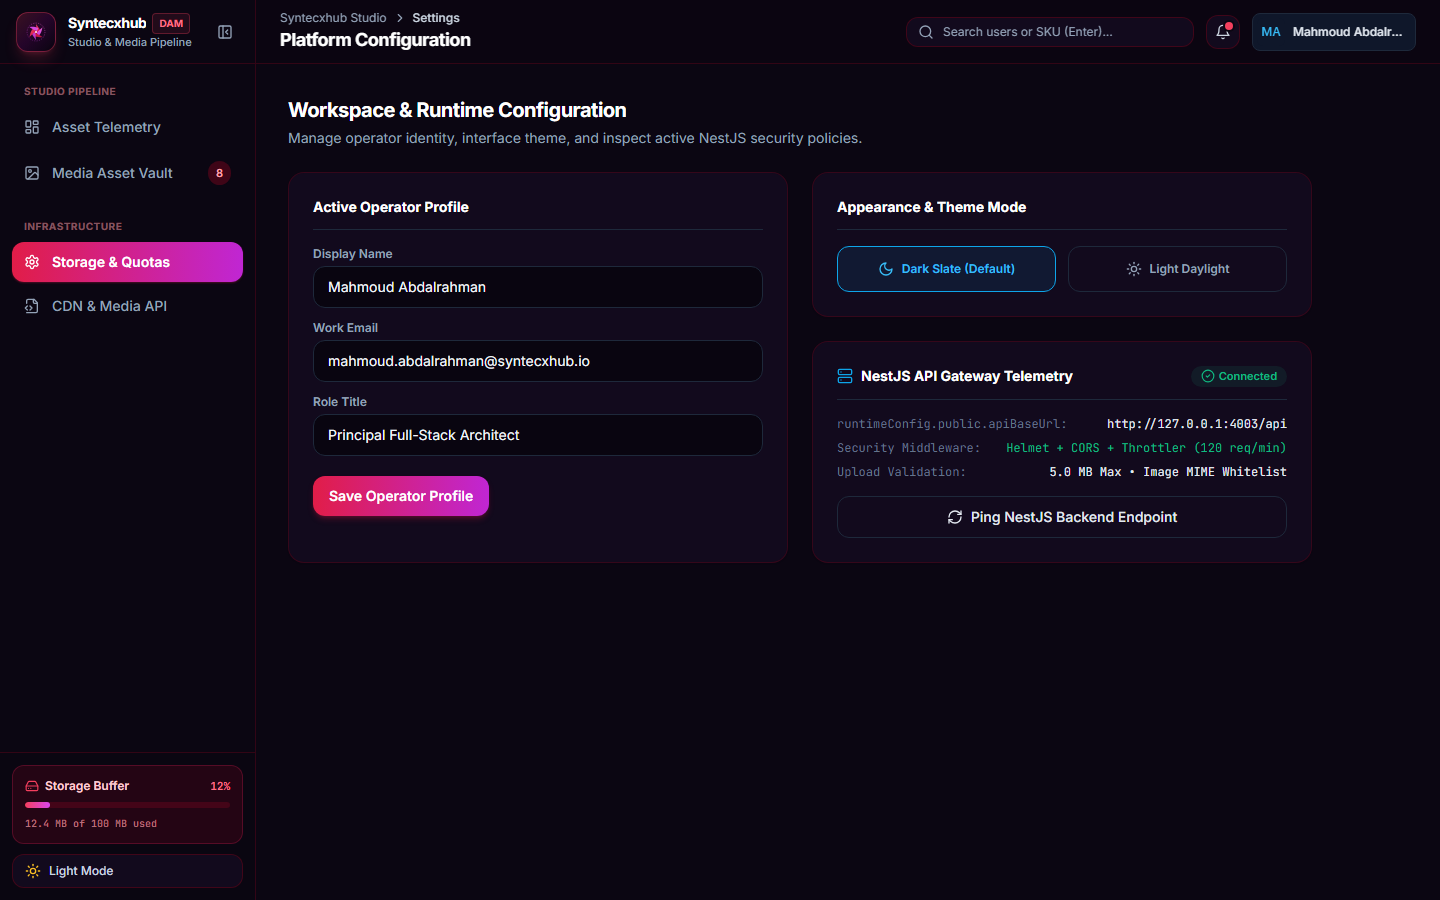
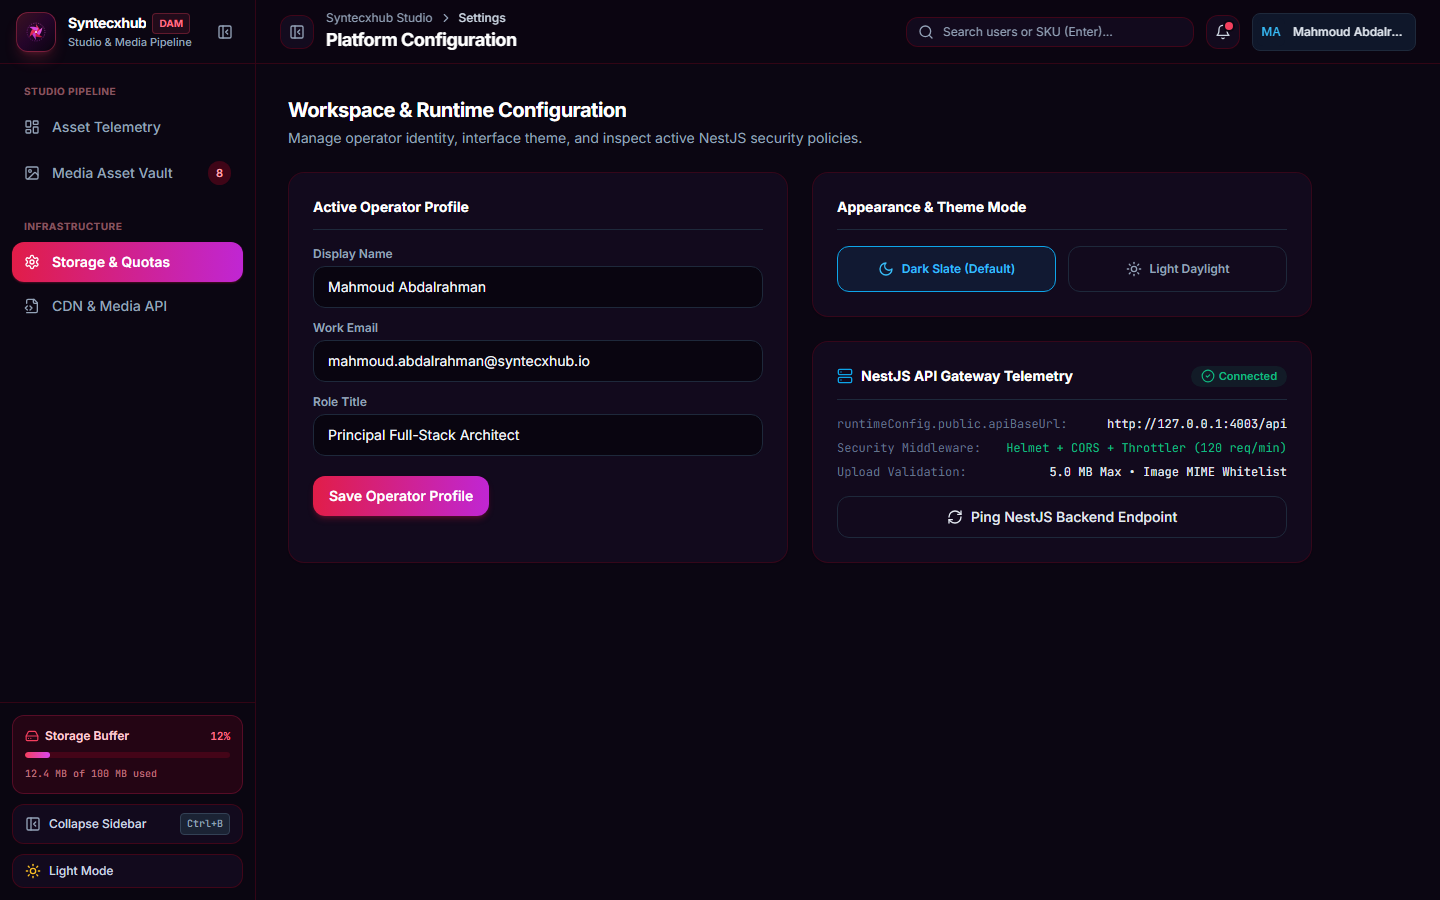
fix(ui): polish collapsed sidebar rail toggle, topbar toggle button, and verify custom select dropdown

Changed region(s): [[0.0, 0.7778, 0.1875, 0.9333], [0.1875, 0.0, 0.375, 0.0622]]

diff --git a/frontend/app/components/layout/AppSidebar.vue b/frontend/app/components/layout/AppSidebar.vue
@@ -63,11 +63,12 @@ const toggleTheme = () => {
     <!-- Brand Header -->
     <div
       class="flex h-16 items-center border-b border-slate-200/90 dark:border-rose-950/60 transition-all duration-200"
-      :class="uiStore.sidebarCollapsed ? 'justify-center px-2 relative' : 'justify-between px-4'"
+      :class="uiStore.sidebarCollapsed ? 'justify-center px-2' : 'justify-between px-4'"
     >
       <NuxtLink
         to="/"
-        class="flex items-center gap-3 min-w-0"
+        class="flex items-center min-w-0"
+        :class="uiStore.sidebarCollapsed ? 'justify-center' : 'gap-3'"
         :title="uiStore.sidebarCollapsed ? 'Syntecxhub Studio (DAM)' : undefined"
       >
         <BrandProjectLogo :size="'md'" />
@@ -86,20 +87,16 @@ const toggleTheme = () => {
         </div>
       </NuxtLink>
 
-      <!-- Desktop Toggle Button -->
+      <!-- Desktop Collapse Button (Expanded State) -->
       <button
+        v-if="!uiStore.sidebarCollapsed"
         type="button"
-        class="hidden lg:inline-flex rounded-lg text-slate-400 hover:bg-slate-100 dark:hover:bg-rose-950/60 transition-all cursor-pointer"
-        :class="
-          uiStore.sidebarCollapsed
-            ? 'absolute -right-3 top-5 z-50 h-6 w-6 rounded-full border border-slate-200 dark:border-rose-900/80 bg-white dark:bg-[#150C22] shadow-md p-0 items-center justify-center text-slate-400 hover:text-white'
-            : 'p-1.5'
-        "
-        :title="uiStore.sidebarCollapsed ? 'Expand Sidebar' : 'Collapse Sidebar'"
+        class="hidden lg:inline-flex rounded-lg p-1.5 text-slate-400 hover:text-slate-900 dark:hover:text-white hover:bg-slate-100 dark:hover:bg-rose-950/60 transition-all cursor-pointer"
+        title="Collapse Sidebar (Ctrl+B)"
+        aria-label="Collapse Sidebar"
         @click="uiStore.toggleSidebar"
       >
-        <PanelLeftOpen v-if="uiStore.sidebarCollapsed" class="h-3.5 w-3.5" />
-        <PanelLeftClose v-else class="h-4 w-4" />
+        <PanelLeftClose class="h-4 w-4" />
       </button>
 
       <!-- Mobile Close Button -->
@@ -158,6 +155,27 @@ const toggleTheme = () => {
         </div>
         <p class="text-[10px] text-slate-500 dark:text-rose-300/70 font-mono">12.4 MB of 100 MB used</p>
       </div>
+
+      <!-- Rail Expand / Collapse Toggle -->
+      <button
+        type="button"
+        class="flex items-center rounded-xl border border-slate-200 dark:border-rose-950/80 bg-white dark:bg-[#120A1D] font-medium text-slate-700 dark:text-slate-300 hover:border-rose-400 hover:text-rose-400 transition-colors cursor-pointer"
+        :class="
+          uiStore.sidebarCollapsed
+            ? 'w-12 h-10 mx-auto justify-center px-0'
+            : 'w-full justify-between px-3 py-2 text-xs'
+        "
+        :title="uiStore.sidebarCollapsed ? 'Expand Sidebar (Ctrl+B)' : 'Collapse Sidebar (Ctrl+B)'"
+        aria-label="Toggle Sidebar Rail"
+        @click="uiStore.toggleSidebar"
+      >
+        <span class="flex items-center gap-2">
+          <PanelLeftOpen v-if="uiStore.sidebarCollapsed" class="h-4 w-4 text-rose-400 shrink-0" />
+          <PanelLeftClose v-else class="h-4 w-4 shrink-0 text-slate-400" />
+          <span v-if="!uiStore.sidebarCollapsed">Collapse Sidebar</span>
+        </span>
+        <kbd v-if="!uiStore.sidebarCollapsed" class="hidden sm:inline font-mono text-[10px] text-slate-400 bg-slate-100 dark:bg-slate-800/80 px-1.5 py-0.5 rounded border border-slate-200 dark:border-slate-700">Ctrl+B</kbd>
+      </button>
 
       <button
         type="button"

diff --git a/frontend/app/components/layout/AppTopbar.vue b/frontend/app/components/layout/AppTopbar.vue
@@ -3,6 +3,8 @@ import {
   Bell,
   ChevronRight,
   Menu,
+  PanelLeftClose,
+  PanelLeftOpen,
   Search,
   UserCheck,
   ExternalLink,
@@ -63,14 +65,26 @@ const handleQuickSearch = () => {
     uploadsStore.fetchUploads();
   }
 };
+
+onMounted(() => {
+  const onKey = (e: KeyboardEvent) => {
+    if ((e.ctrlKey || e.metaKey) && e.key.toLowerCase() === 'b') {
+      e.preventDefault();
+      uiStore.toggleSidebar();
+    }
+  };
+  window.addEventListener('keydown', onKey);
+  onUnmounted(() => window.removeEventListener('keydown', onKey));
+});
 </script>
 
 <template>
   <header
     class="sticky top-0 z-30 flex h-16 items-center justify-between gap-4 border-b border-slate-200/90 dark:border-rose-950/60 bg-white/90 dark:bg-[#0B0612]/90 px-4 sm:px-6 backdrop-blur-md"
   >
-    <!-- Left: Mobile Menu & Breadcrumbs -->
+    <!-- Left: Mobile Menu, Desktop Sidebar Toggle & Breadcrumbs -->
     <div class="flex items-center gap-3 min-w-0">
+      <!-- Mobile Menu Button -->
       <button
         type="button"
         class="lg:hidden rounded-lg border border-slate-200 dark:border-slate-800 p-2 text-slate-600 dark:text-slate-300 hover:bg-slate-100 dark:hover:bg-slate-800"
@@ -78,6 +92,18 @@ const handleQuickSearch = () => {
         @click="uiStore.openMobileSidebar"
       >
         <Menu class="h-4 w-4" />
+      </button>
+
+      <!-- Desktop Sidebar Toggle Button -->
+      <button
+        type="button"
+        class="hidden lg:inline-flex items-center justify-center rounded-xl border border-slate-200/90 dark:border-rose-950/80 bg-white/70 dark:bg-[#150C22]/80 p-2 text-slate-500 dark:text-slate-400 hover:text-rose-400 hover:border-rose-500/50 hover:bg-rose-50/50 dark:hover:bg-rose-950/40 transition-all cursor-pointer shadow-xs"
+        :title="uiStore.sidebarCollapsed ? 'Expand Sidebar (Ctrl+B)' : 'Collapse Sidebar (Ctrl+B)'"
+        aria-label="Toggle Sidebar Navigation"
+        @click="uiStore.toggleSidebar"
+      >
+        <PanelLeftOpen v-if="uiStore.sidebarCollapsed" class="h-4 w-4 text-rose-400" />
+        <PanelLeftClose v-else class="h-4 w-4" />
       </button>
 
       <div class="min-w-0">

diff --git a/frontend/e2e/media-library.spec.ts b/frontend/e2e/media-library.spec.ts
@@ -83,4 +83,56 @@ test.describe('Syntecxhub Project 3 — Media Library & Asset Pipeline', () => {
       fullPage: true,
     });
   });
+
+  test('05 - Custom select dropdown displays theme-styled popover and active options', async ({ page }) => {
+    await page.goto('/media');
+    await page.waitForLoadState('networkidle');
+
+    // Click on custom select dropdown button
+    const selectTrigger = page.locator('button:has-text("All Image Formats")');
+    await expect(selectTrigger).toBeVisible();
+    await selectTrigger.click();
+    await page.waitForTimeout(300);
+
+    // Verify popover options list is visible
+    const option = page.locator('button:has-text("PNG Raster")');
+    await expect(option).toBeVisible();
+
+    // Capture screenshot with dropdown open
+    await page.screenshot({
+      path: path.join(screenshotsDir, '05-custom-select-dropdown-open.png'),
+    });
+
+    // Select PNG option
+    await option.click();
+    await page.waitForTimeout(300);
+    await expect(page.locator('button:has-text("PNG Raster")')).toBeVisible();
+  });
+
+  test('06 - Sidebar collapse & expand via Topbar and bottom rail toggle', async ({ page }) => {
+    await page.goto('/media');
+    await page.waitForLoadState('networkidle');
+
+    // Collapse via Topbar toggle button
+    const topbarToggle = page.locator('header button[aria-label="Toggle Sidebar Navigation"]');
+    await expect(topbarToggle).toBeVisible();
+    await topbarToggle.click();
+    await page.waitForTimeout(400);
+
+    // Verify sidebar is collapsed (w-20 class present on aside)
+    const aside = page.locator('aside');
+    await expect(aside).toHaveClass(/w-20/);
+
+    // Capture screenshot of shrunk sidebar
+    await page.screenshot({
+      path: path.join(screenshotsDir, '06-shrunk-sidebar.png'),
+    });
+
+    // Re-expand via rail toggle button at bottom
+    const railToggle = page.locator('aside button[aria-label="Toggle Sidebar Rail"]');
+    await expect(railToggle).toBeVisible();
+    await railToggle.click();
+    await page.waitForTimeout(400);
+    await expect(aside).toHaveClass(/w-64/);
+  });
 });
